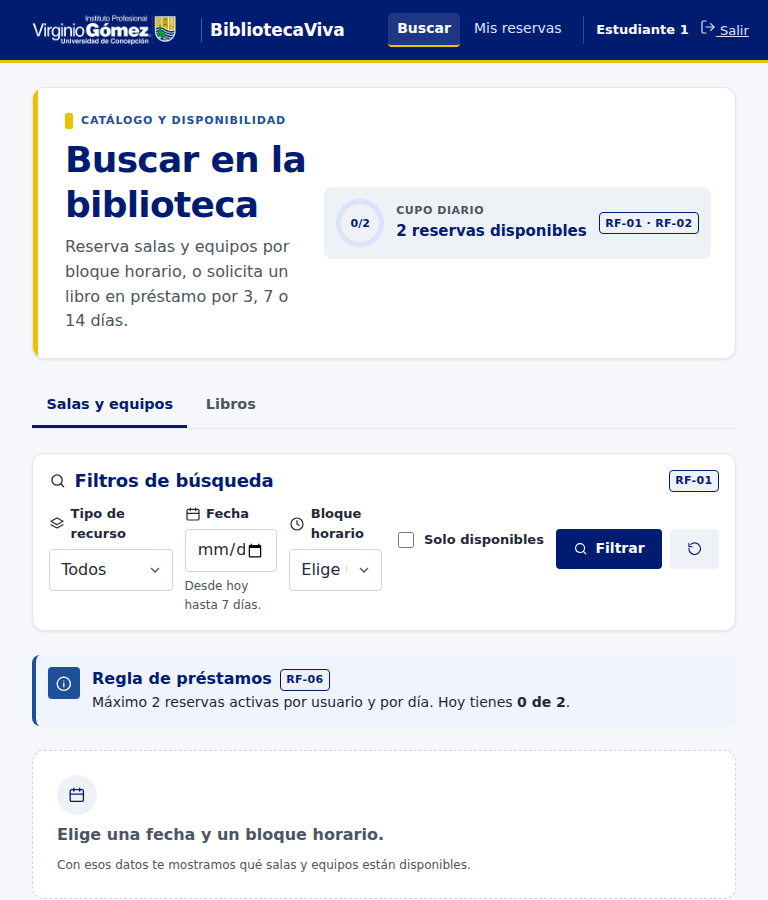
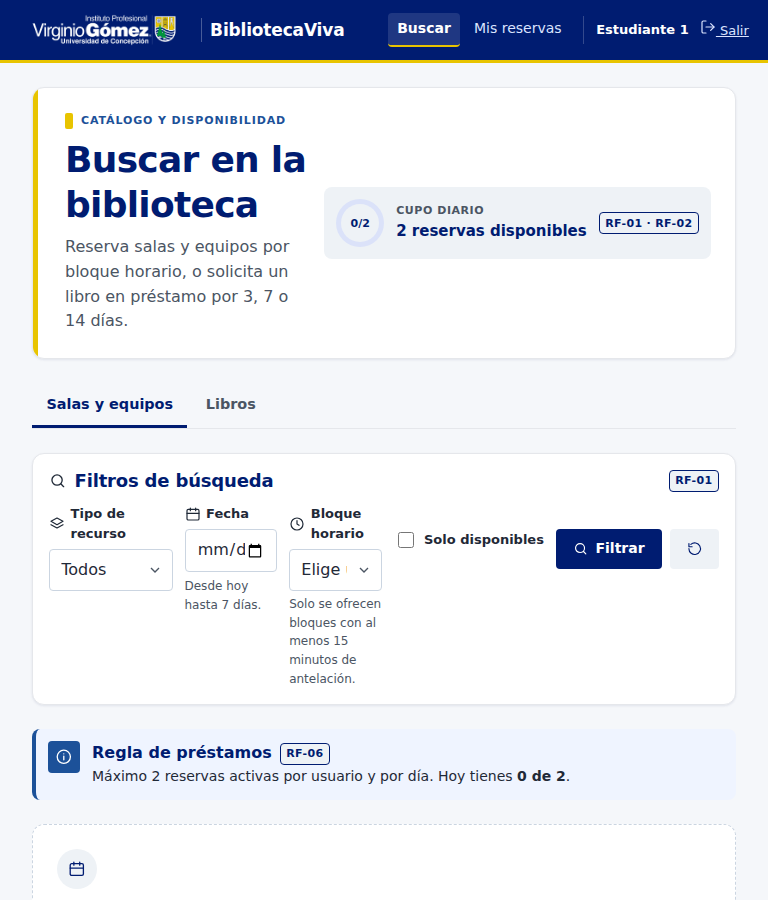
docs(evidence): regenerate the responsive captures after the UI fixes

Changed region(s): [[0.0312, 0.6533, 0.75, 0.9644], [0.0625, 0.9956, 0.9688, 1.0]]

diff --git a/docs/evidence/README.md b/docs/evidence/README.md
@@ -13,14 +13,15 @@ Carpeta `rnf-02/`. Capturas de las seis pantallas del MVP en dos resoluciones:
 | Mis reservas | `rnf-02-mis-reservas-360.png` | `rnf-02-mis-reservas-1280.png` |
 | Panel bibliotecario | `rnf-02-bibliotecario-360.png` | `rnf-02-bibliotecario-1280.png` |
 
-**Cómo se generaron (2026-11-13).** Sobre la base cargada con
+**Cómo se generaron (2026-11-13; regeneradas el 2026-11-20 tras DEF-04 y
+DEF-05).** Sobre la base cargada con
 `python manage.py seed --reset` y con el servidor local en marcha:
 
 1. Chromium headless (Playwright) abrió la aplicación real y se autenticó con los
    usuarios ficticios del seed (`estudiante1@example.com`,
    `estudiante2@example.com`, `bibliotecario1@example.com`).
 2. Cada pantalla se capturó con la ventana fijada en 360×900 y 1280×900, sin
-   modificar templates, datos ni estilos. Las animaciones se desactivan con
+   modificar templates, datos ni estilos (`local/tools/capturas.py`). Las animaciones se desactivan con
    `prefers-reduced-motion`.
 3. Las capturas de `../mockups/v2/` usan el mismo procedimiento con ventanas de
    360×1400 y 1280×1200.
